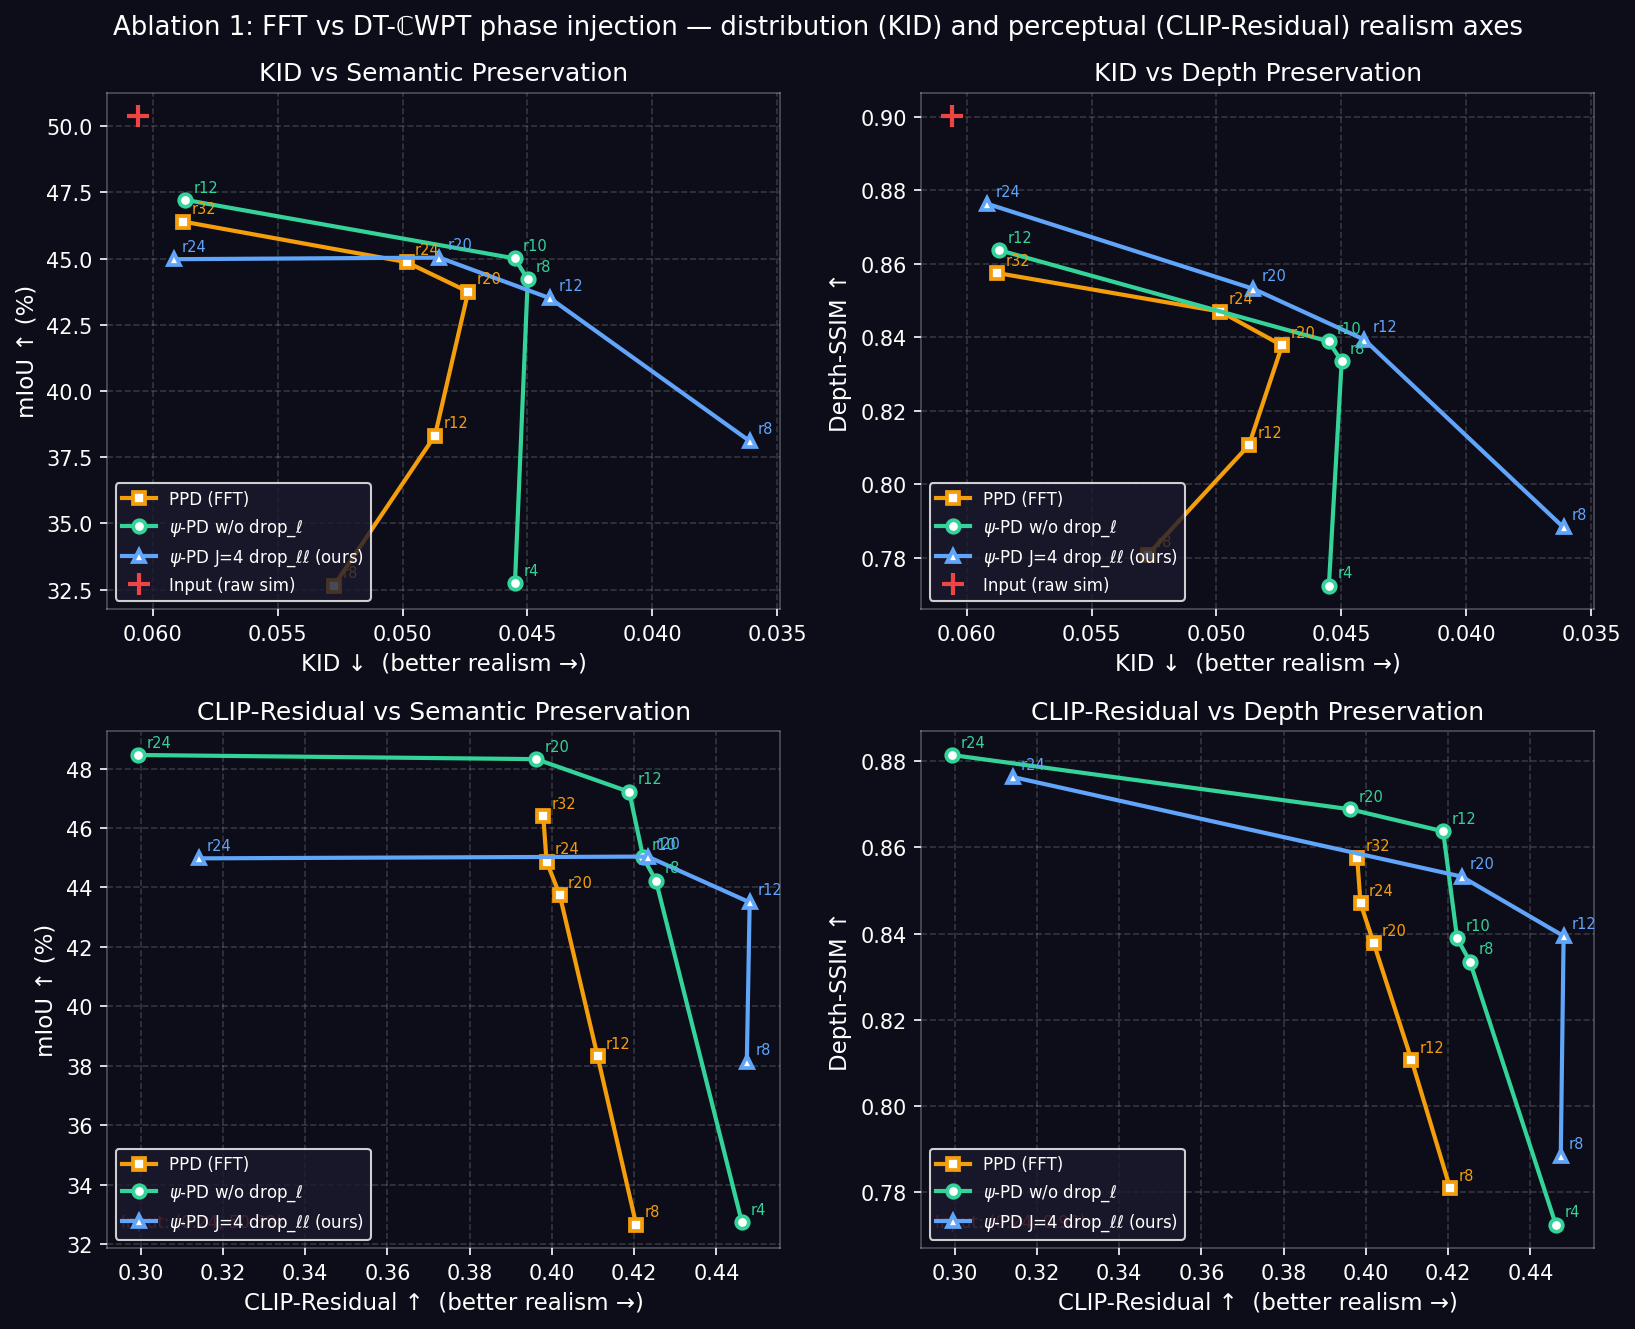
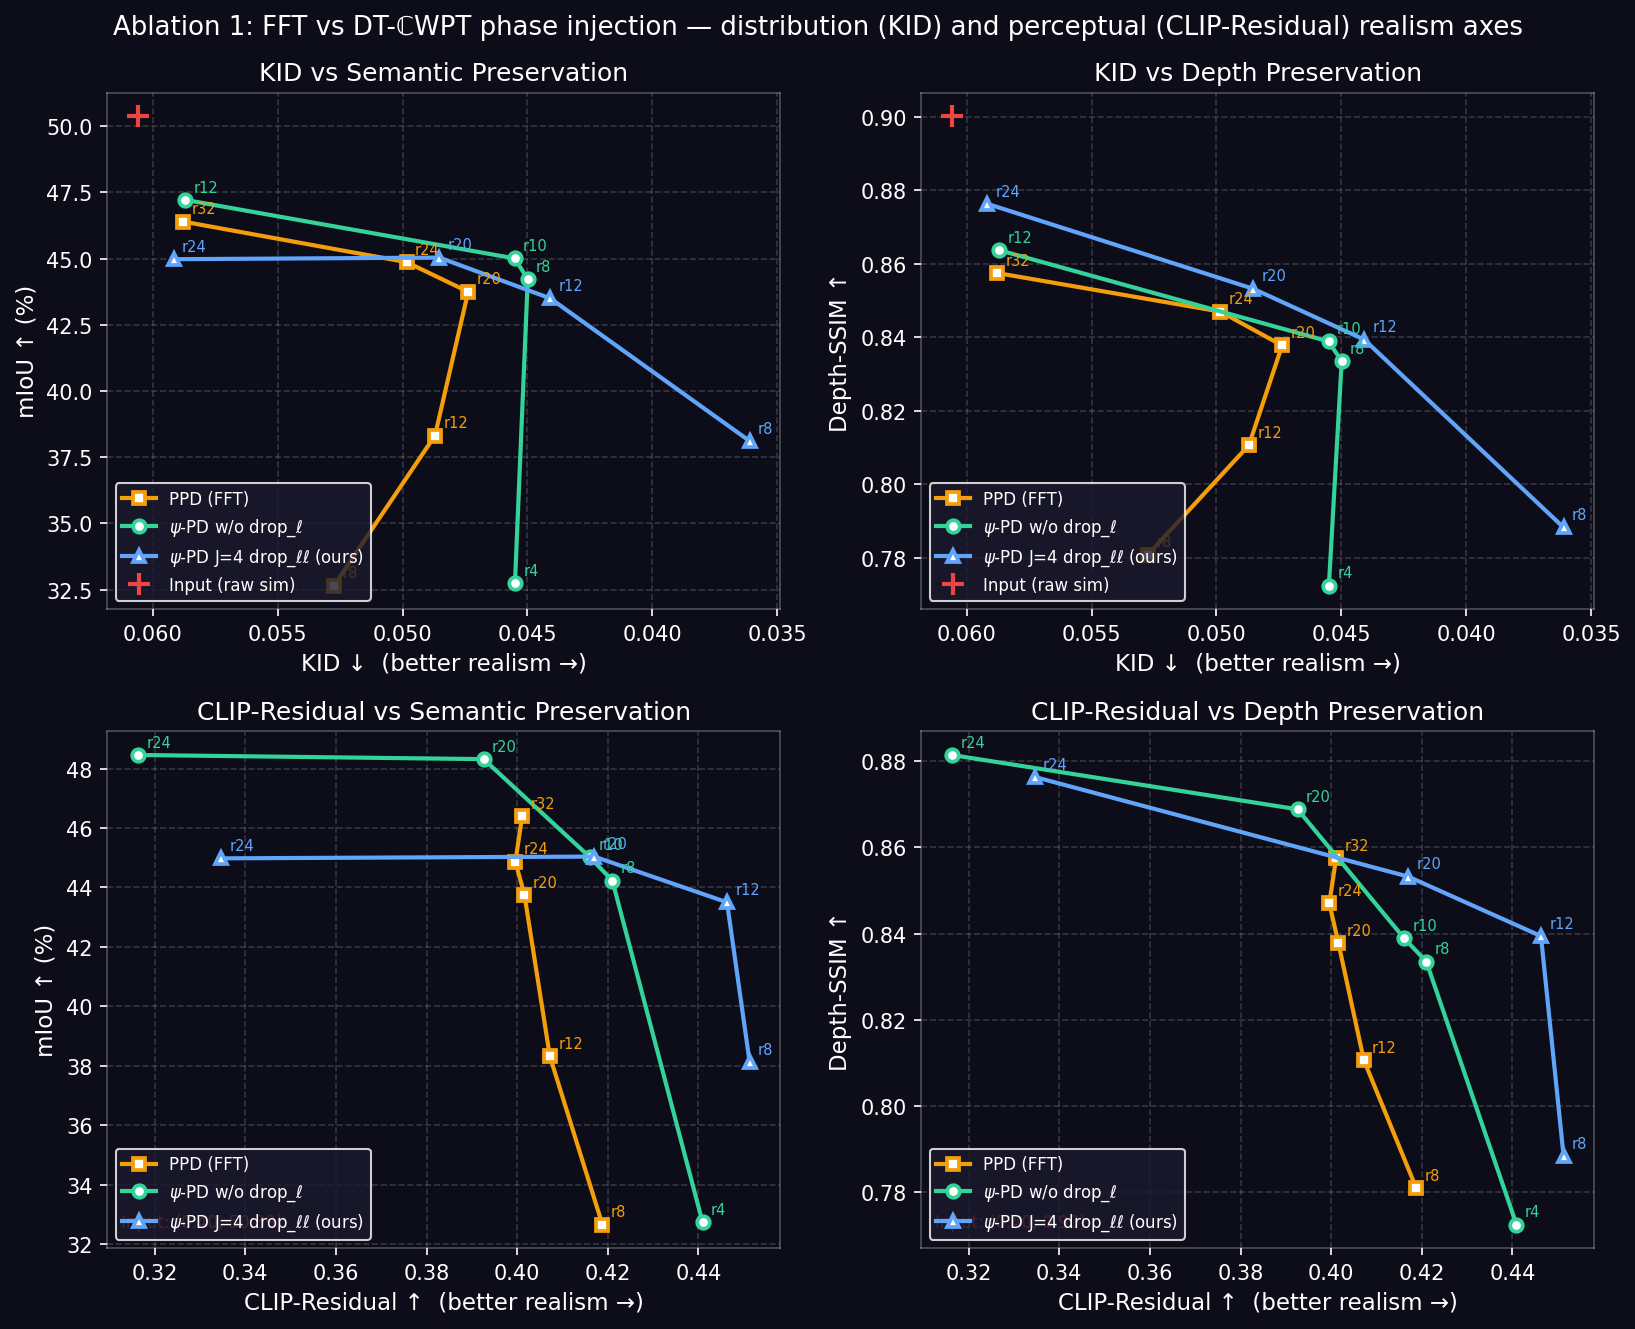
eval: regenerate ablation1 4-panel figure with CLIP-Res v15
- plot_ablation1_4panel.py: switch from SCORES_V7 → SCORES_V15 / INPUT_CLIP_SETS["v15"]
- figures/ablation1_4panel.png: regenerated (bottom row now uses v15 scores)
- Results.md: update generate command note to reference v15

diff --git a/plot_ablation1_4panel.py b/plot_ablation1_4panel.py
@@ -2,11 +2,11 @@
 Ablation 1, 4-panel version: PPD (FFT) vs ψ-PD baseline vs ψ-PD J=4 drop_ll.
 
 Top row    — x = KID (paired-reference distribution realism, inverted axis)
-Bottom row — x = CLIP-Residual v7 (no-reference perceptual realism)
+Bottom row — x = CLIP-Residual v15 (no-reference perceptual realism)
 Columns    — y = mIoU (left), Depth-SSIM (right)
 
-KID/mIoU/DepSSIM parsed from logs/vkitti_eval/; CLIP-Residual v7 values from
-plot_ablation_clip_residual.SCORES_V7 (logs/vkitti_eval/<v>_clipres.log).
+KID/mIoU/DepSSIM parsed from logs/vkitti_eval/; CLIP-Residual v15 values from
+plot_ablation_clip_residual.SCORES_V15 (logs/vkitti_eval/<v>_clipres.log).
 
 Usage:
     python plot_ablation1_4panel.py --output figures/ablation1_4panel.png --label-radii
@@ -20,9 +20,9 @@ import matplotlib.pyplot as plt
 from plot_ablation_baseline_vs_ppd import (
     COLORS, LABELS, MARKERS, RADII, INPUT, load_variant,
 )
-from plot_ablation_clip_residual import SCORES_V7, INPUT_CLIP_SETS
+from plot_ablation_clip_residual import SCORES_V15, INPUT_CLIP_SETS
 
-INPUT_CLIP = INPUT_CLIP_SETS["v7"]
+INPUT_CLIP = INPUT_CLIP_SETS["v15"]
 
 
 def style_ax(ax):
@@ -69,7 +69,7 @@ def main():
         return kid if kid is not None and kid < INPUT["kid"] else None
 
     def x_clip(key, r, data):
-        return SCORES_V7[key].get(r)
+        return SCORES_V15[key].get(r)
 
     fig, axes = plt.subplots(2, 2, figsize=(11, 9))
     fig.patch.set_facecolor("#0d0d1a")

diff --git a/Results.md b/Results.md
@@ -26,7 +26,7 @@ Frontier plot: `python plot_vkitti_frontier.py --output outputs/vkitti_frontier.
 
 ![Ablation 1 (4-panel)](figures/ablation1_4panel.png)
 
-Generate: `python plot_ablation1_4panel.py --output figures/ablation1_4panel.png --label-radii` (top row: KID axis; bottom row: CLIP-Residual axis). Legacy 2-panel KID-only version: `python plot_ablation_baseline_vs_ppd.py`.
+Generate: `python plot_ablation1_4panel.py --output figures/ablation1_4panel.png --label-radii` (top row: KID axis; bottom row: CLIP-Residual v15 axis). Legacy 2-panel KID-only version: `python plot_ablation_baseline_vs_ppd.py`.
 
 ### Per-class mIoU at r=12
 
